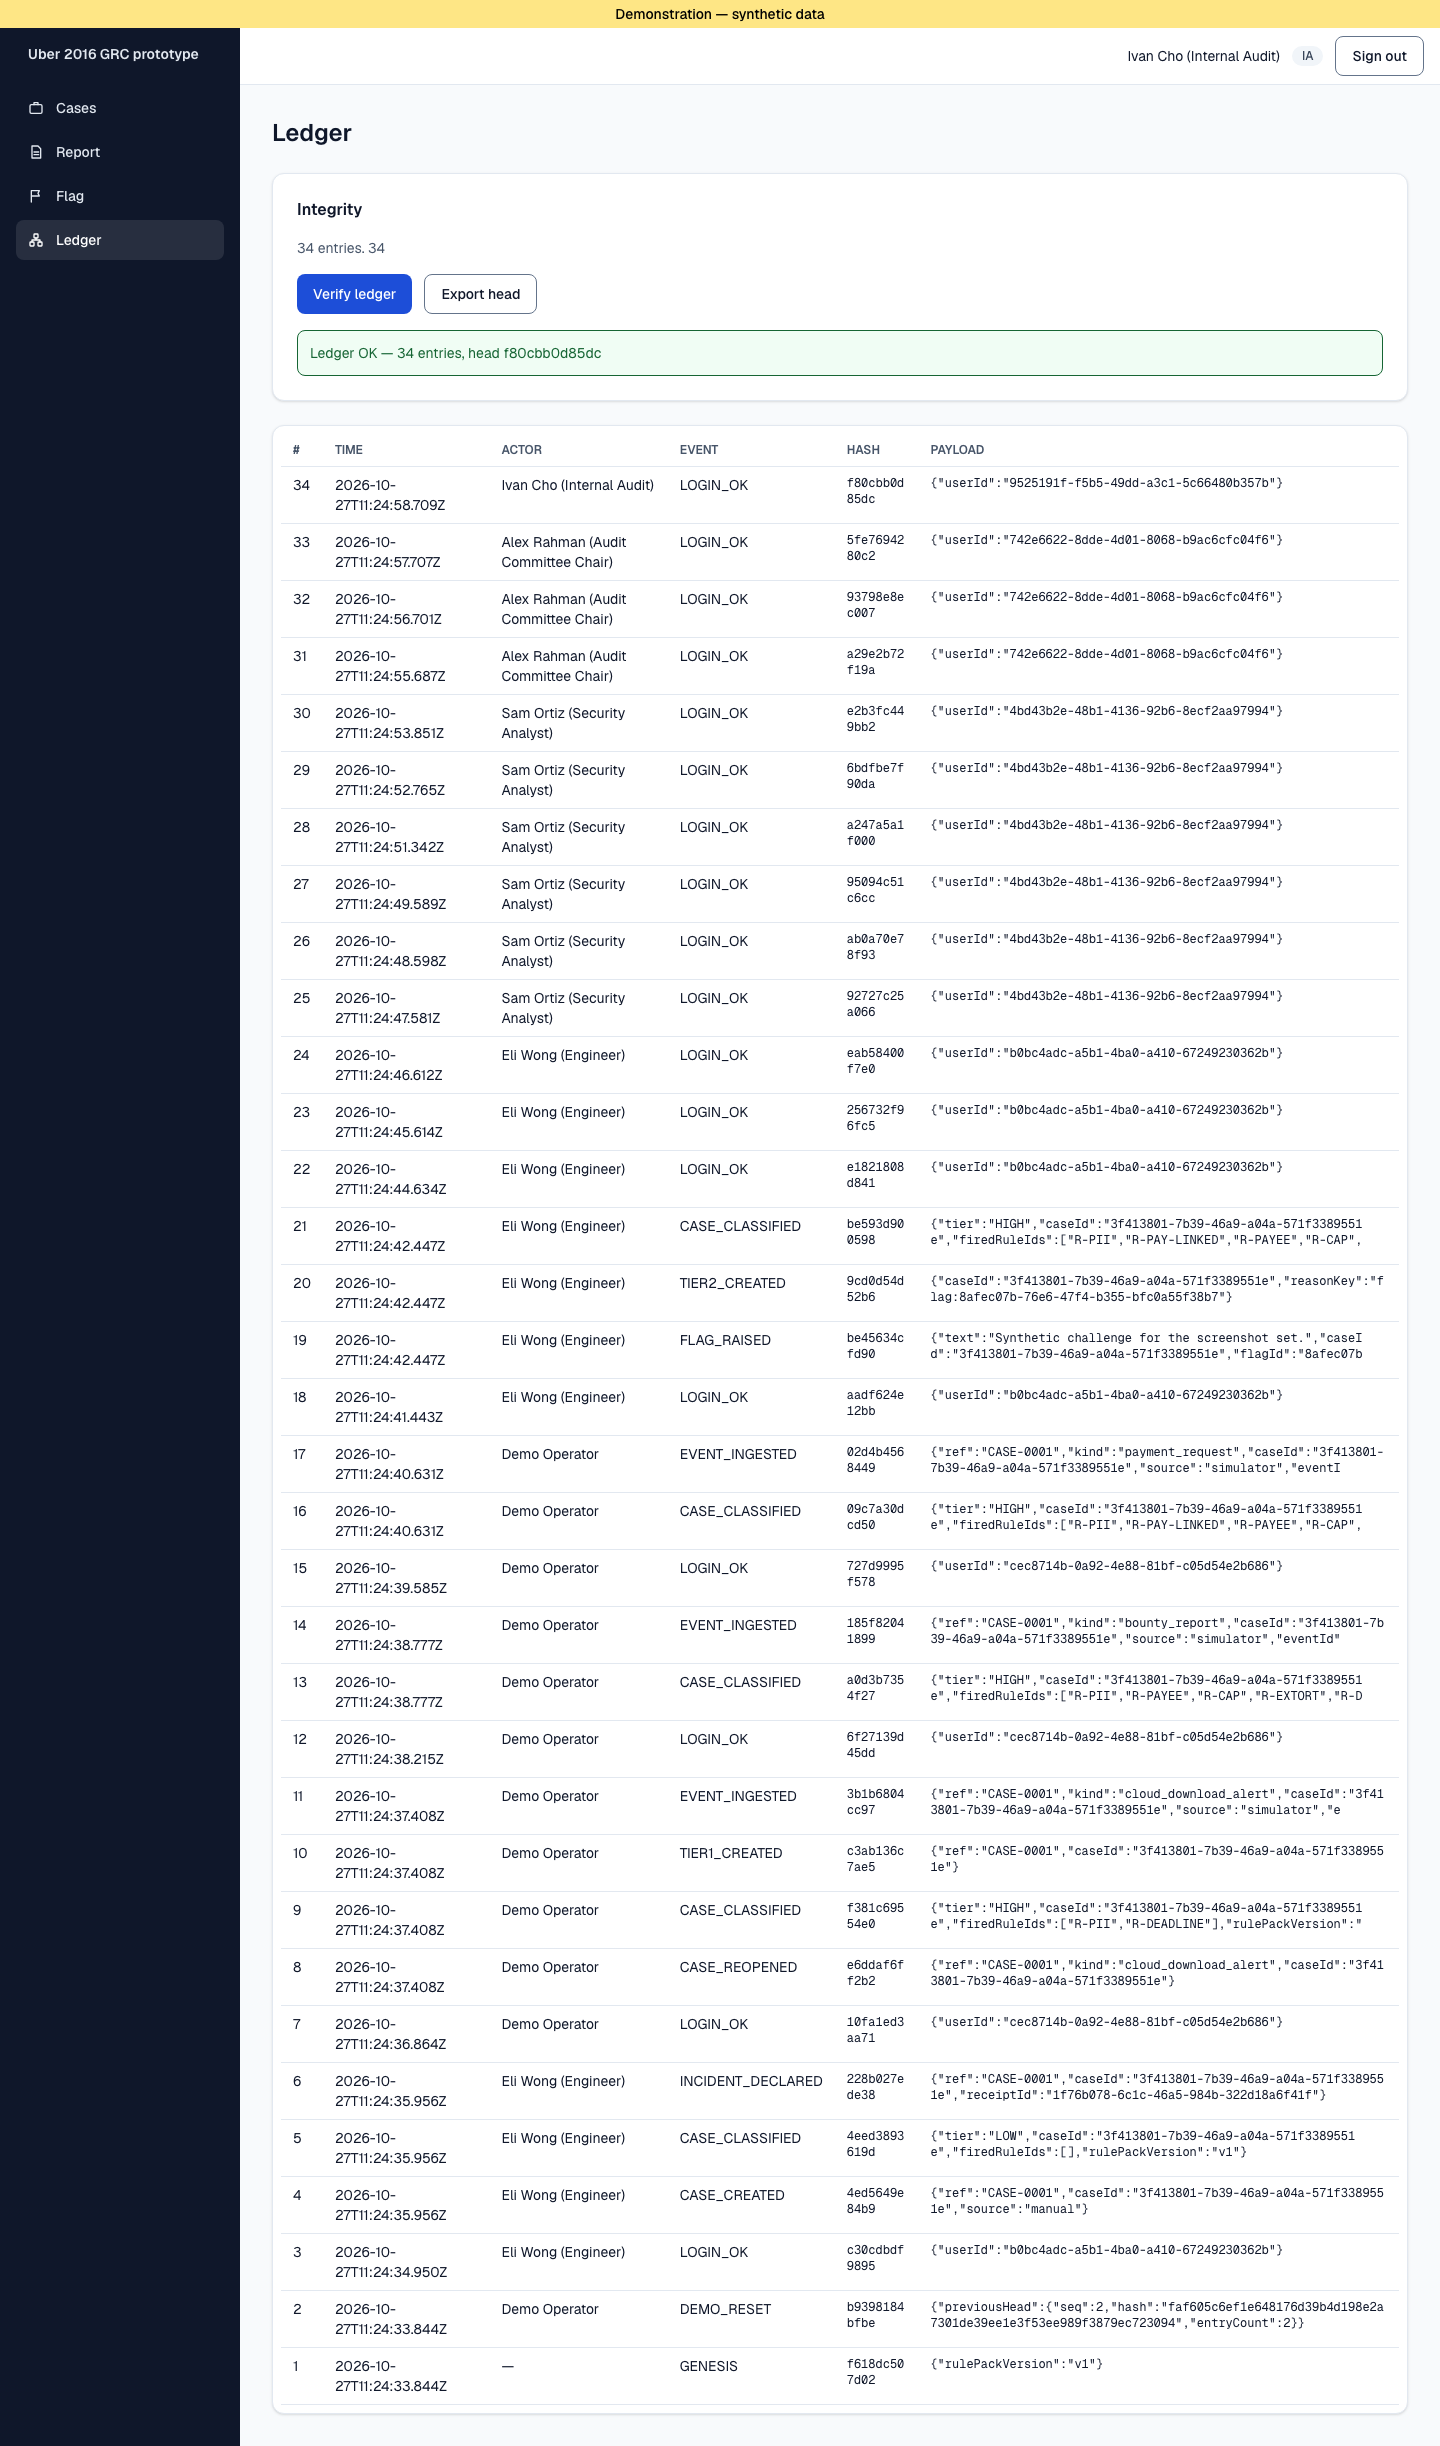
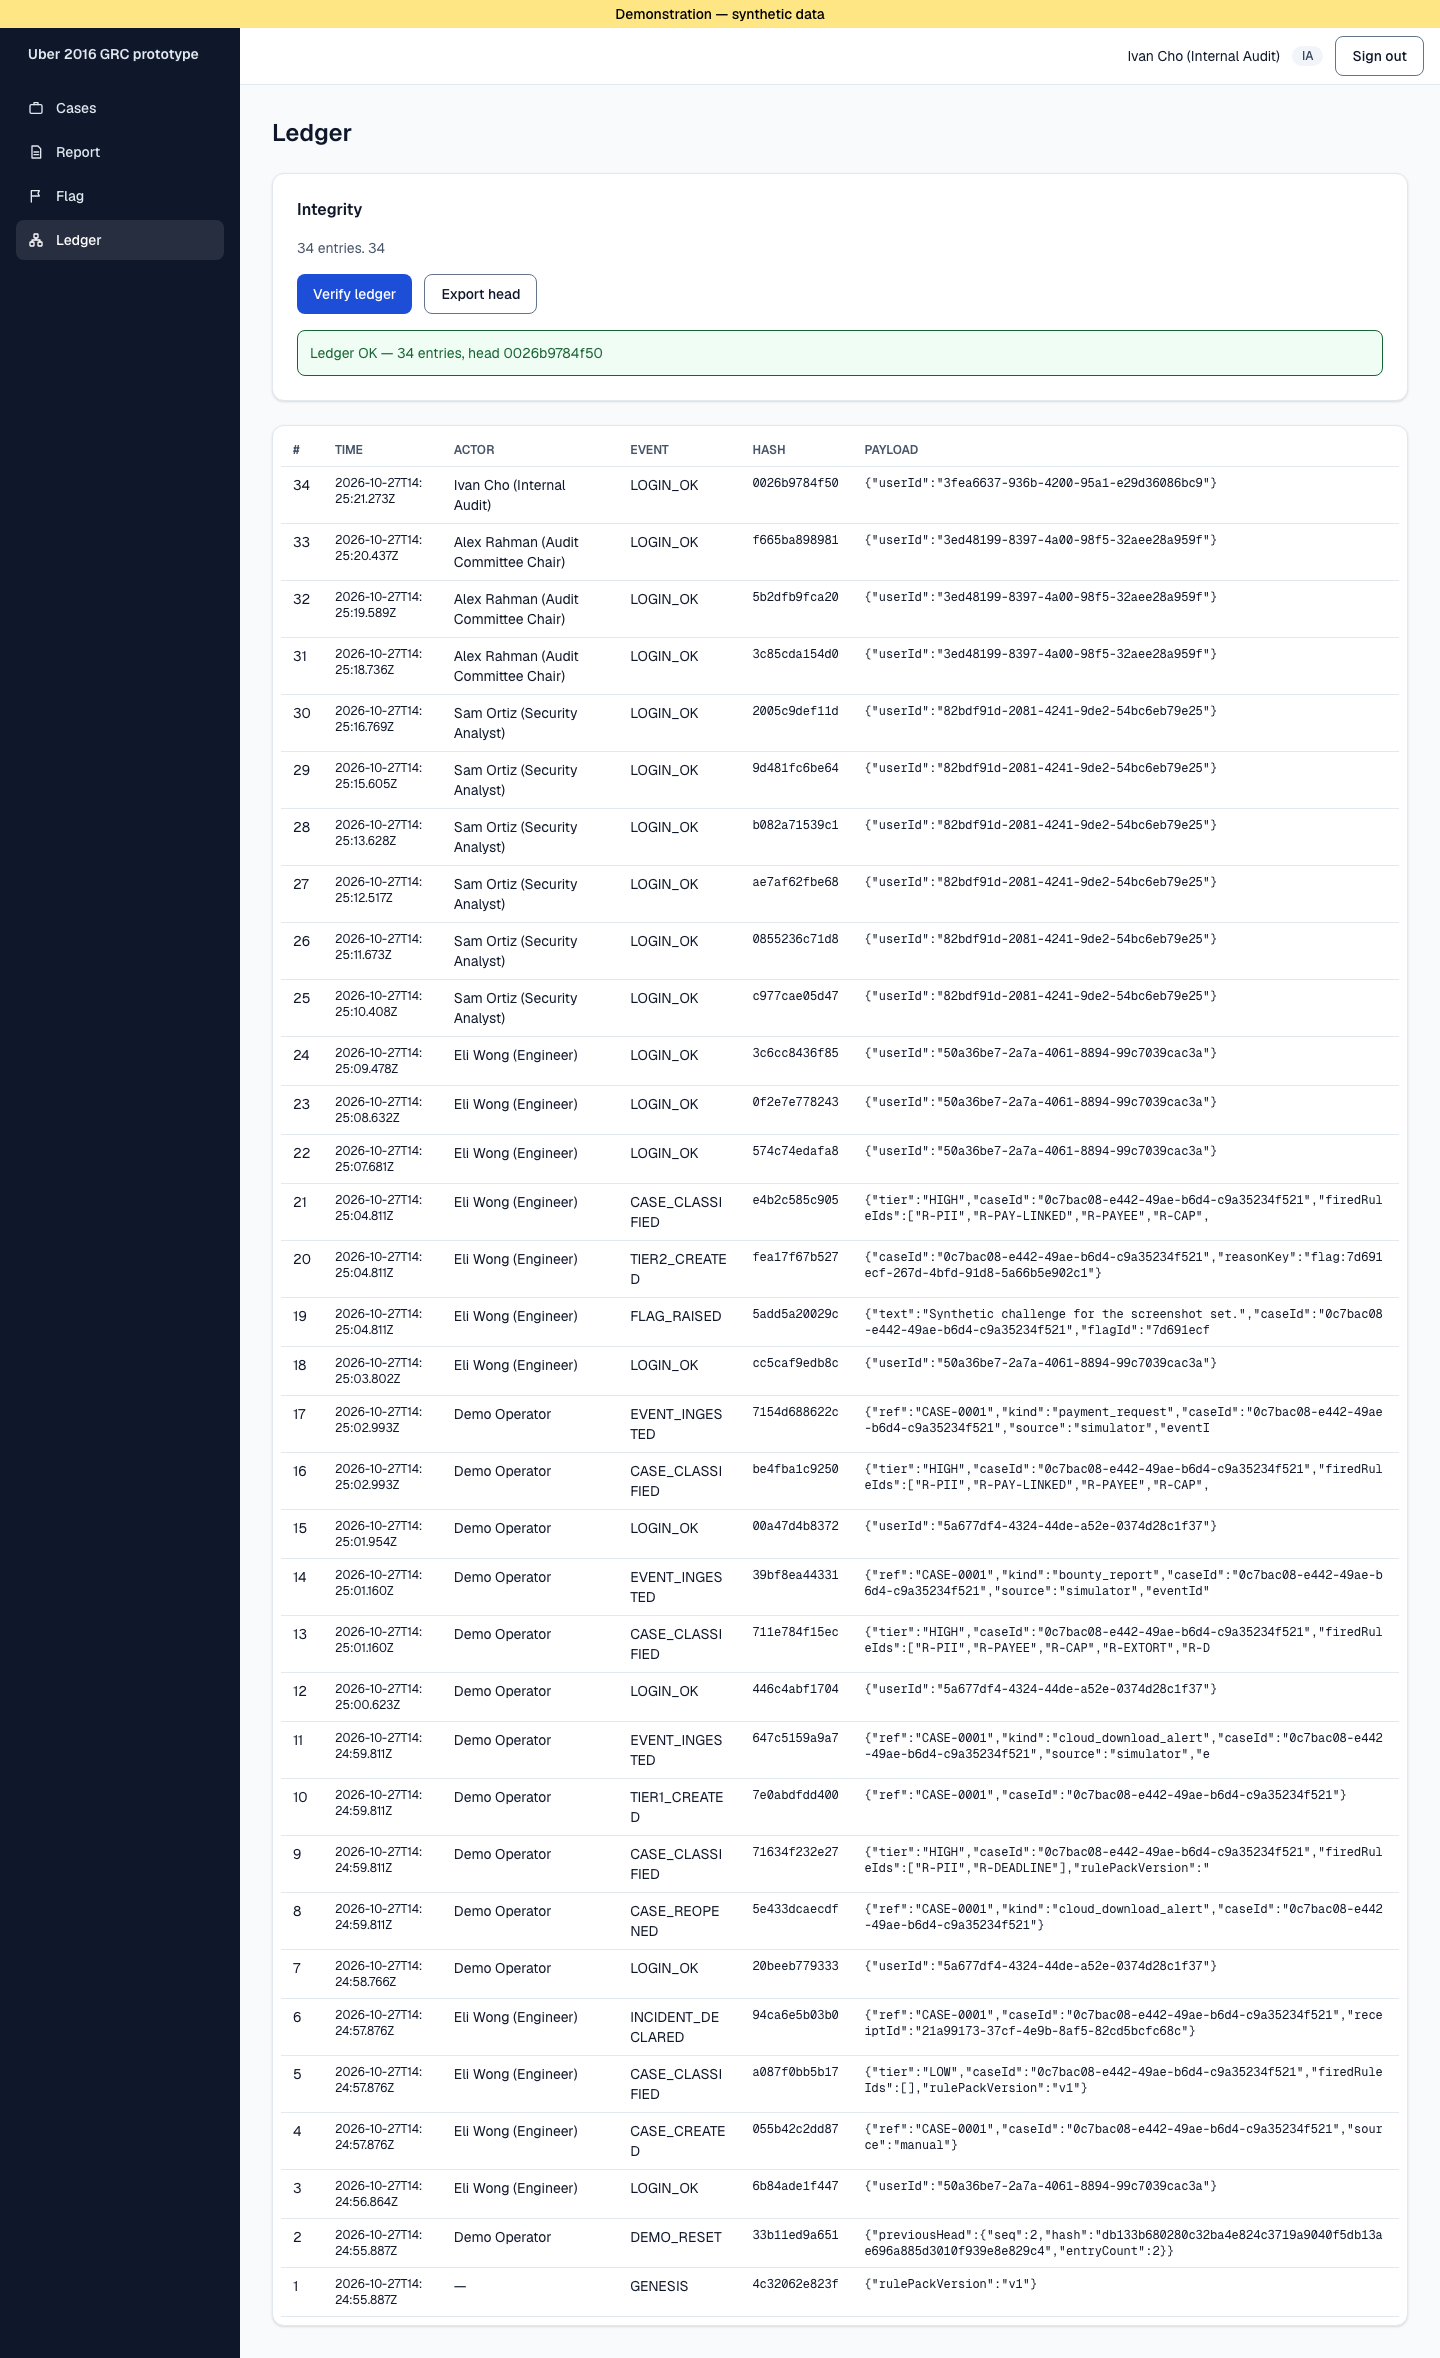
ux: fix clipped clocks table and narrow ledger

diff --git a/src/app/(app)/cases/[id]/DecisionSummary.tsx b/src/app/(app)/cases/[id]/DecisionSummary.tsx
@@ -42,8 +42,8 @@ export function DecisionSummary({
           </Alert>
         </div>
       )}
-      <div className="grid gap-6 lg:grid-cols-3">
-        <div className="flex flex-col gap-6 lg:col-span-2">
+      <div className="grid gap-6 lg:grid-cols-5">
+        <div className="flex flex-col gap-6 lg:col-span-3">
           <Card titleId="events" title="Events">
             <Timeline
               items={c.events.map((e) => ({
@@ -69,7 +69,7 @@ export function DecisionSummary({
             )}
           </Card>
         </div>
-        <div className="flex flex-col gap-6">
+        <div className="flex flex-col gap-6 lg:col-span-2">
           <Card titleId="gate" title="Decision gate">
             <p data-testid="gate-state" className="text-sm font-medium text-ink">
               {c.gate.status === "awaiting" &&
@@ -117,7 +117,7 @@ export function DecisionSummary({
                   const cb = clockBadge(k.status);
                   return (
                     <tr key={k.id} data-testid={`clock-${k.id}`}>
-                      <Td>
+                      <Td className="min-w-16 break-words">
                         {k.label}
                         {k.note && (
                           <div className="text-xs text-muted">{k.note}</div>
@@ -126,7 +126,7 @@ export function DecisionSummary({
                       <Td>
                         <Badge variant={cb.variant}>{k.status}</Badge>
                       </Td>
-                      <Td>{k.dueAt ?? "—"}</Td>
+                      <Td className="break-all">{k.dueAt ?? "—"}</Td>
                       <Td>
                         {k.pctElapsed === null ? "—" : `${k.pctElapsed}%`}
                       </Td>

diff --git a/tests/e2e/ui-shell.spec.ts b/tests/e2e/ui-shell.spec.ts
@@ -195,6 +195,17 @@ test("cases list and case detail keep their contract in the dashboard layout", a
     page.getByRole("region", { name: "Decision gate" }),
   ).toBeInViewport();
   await expect(page.getByRole("button", { name: "Close case" })).toBeEnabled();
+  // Narrow rail: no clock row is clipped or scrolls sideways.
+  await expect(page.locator('[data-testid^="clock-"]').first()).toBeVisible();
+  expect(
+    await page.evaluate(() =>
+      [...document.querySelectorAll('[data-testid^="clock-"]')].flatMap((tr) => [
+        ...[...tr.querySelectorAll("td")].map((c) => c.scrollWidth > c.clientWidth),
+        (tr.closest(".overflow-x-auto") as HTMLElement).scrollWidth >
+          (tr.closest(".overflow-x-auto") as HTMLElement).clientWidth,
+      ]),
+    ),
+  ).not.toContain(true);
 });
 
 test("ledger shows verify result, failure label and a Demo only region", async ({
@@ -228,6 +239,13 @@ test("ledger shows verify result, failure label and a Demo only region", async (
       () => document.documentElement.scrollWidth <= window.innerWidth,
     ),
   ).toBe(true);
+  // Key columns (#, Time, Actor, Event) stay readable without sideways scrolling.
+  const eventHead = await page
+    .getByRole("columnheader", { name: "Event" })
+    .boundingBox();
+  const eventCell = await page.locator("tbody tr").first().locator("td").nth(3).boundingBox();
+  expect(eventHead!.x + eventHead!.width).toBeLessThanOrEqual(375);
+  expect(eventCell!.x + eventCell!.width).toBeLessThanOrEqual(375);
 });
 
 test("demo panel groups replay, clock and reset", async ({ page }) => {

diff --git a/src/app/(app)/ledger/page.tsx b/src/app/(app)/ledger/page.tsx
@@ -126,13 +126,13 @@ async function Ledger({ searchParams }: PageProps<"/ledger">) {
             {rows.map((r) => (
               <tr key={r.seq}>
                 <Td>{r.seq}</Td>
-                <Td>{r.ts}</Td>
-                <Td>{r.actorName}</Td>
-                <Td>{r.eventType}</Td>
-                <Td className="min-w-0 break-all font-mono text-xs">
+                <Td className="min-w-16 break-all text-xs">{r.ts}</Td>
+                <Td className="min-w-16 break-words">{r.actorName}</Td>
+                <Td className="min-w-20 break-all">{r.eventType}</Td>
+                <Td className="min-w-28 break-all font-mono text-xs">
                   {r.hashShort}
                 </Td>
-                <Td className="min-w-0 break-all font-mono text-xs">
+                <Td className="min-w-56 break-all font-mono text-xs">
                   {r.payloadPreview}
                 </Td>
               </tr>

diff --git a/tests/e2e/screens.spec.ts b/tests/e2e/screens.spec.ts
@@ -57,6 +57,7 @@ test.describe.serial("screenshots", () => {
         await page.goto(v.path);
         if (name === "case-detail") {
           await page.getByRole("link", { name: "CASE-0001" }).click();
+          await page.getByRole("region", { name: "Decision gate" }).waitFor();
         }
         await page.waitForLoadState("networkidle");
         await page.screenshot({

diff --git a/docs/ai/HANDOVER.md b/docs/ai/HANDOVER.md
@@ -1,8 +1,8 @@
 # Handover
 
 **Changed:** UX redesign on branch `ux/dashboard-redesign` (not pushed, no PR). Design tokens, shared UI components (`src/components/ui/*`), app shell with sidebar, skip link and mobile menu, every page restyled (login, report, cases, case detail, board, ledger, flag, demo). Old `Nav.tsx` removed. `tests/e2e/screens.spec.ts` (skipped unless `SCREENSHOTS=1`) writes 27 PNGs to `docs/evidence/screens/{1440,768,375}/`. Board page now uses `controlClass` instead of a local `inputCls`.
-**Verified (local, Postgres 16):** `npx eslint src tests` clean, typecheck clean, build OK. Unit 251/252 pass; the one failure is `.claude/worktrees/p1-.../tests/unit/authz.test.ts` (stale worktree copy, not the repo's test). Integration 136/136. `npm run e2e` 25 passed, 2 skipped (screens). `SCREENSHOTS=1 npx playwright test screens` 2 passed, 27 PNGs.
-**Not verified / not done:** hosted preview run; human review; PR not opened; e2e not yet a required check; Playwright `E2E_BASE_URL` support is still missing, so Task 5 of P4 cannot run against a hosted URL. Screenshots seen: board 1440 and login 375 fine; case-detail 1440 clocks table clips the Due timestamp in the narrow right column; ledger 375 table is wider than the viewport (clipped in the full-page PNG).
-**Next:** fix the two clipping issues if wanted, open PR after P4 merges, rebase onto `main`, add `E2E_BASE_URL`, then P4 Task 5.
+**Verified (local, Postgres 16):** `npx eslint src tests` clean, typecheck clean, build OK. Unit 251/252 pass; the one failure is `.claude/worktrees/p1-.../tests/unit/authz.test.ts` (stale worktree copy, not the repo's test). Integration 136/136. `npm run e2e` 25 passed, 2 skipped (screens), including new no-clip and 375px ledger column assertions. `SCREENSHOTS=1 npx playwright test screens` 2 passed, 27 PNGs (case-detail capture now waits for the Decision gate region; earlier PNG was blank).
+**Not verified / not done:** hosted preview run; human review; PR not opened; e2e not yet a required check; Playwright `E2E_BASE_URL` support is still missing, so Task 5 of P4 cannot run against a hosted URL. Screenshots re-checked after the fix: case-detail 1440 clocks no longer clip (rail widened to 2/5 of the grid on lg+, cells wrap) but Due timestamps wrap in short pieces; ledger 375 Event/Actor/# are visible without sideways scroll (Hash/Payload scroll inside the table wrapper), Event type names break mid-word.
+**Next:** open PR after P4 merges, rebase onto `main`, add `E2E_BASE_URL`, then P4 Task 5.
 **Decisions:** presentation only (no server/domain/migration change); status never colour-only (icon plus text); the shell wrapper is `div#main` and each page keeps its own `<main>`; screenshots are committed as evidence.
 **Gotchas:** run `npx eslint src tests`, not bare `npm run lint` (scans `.claude/worktrees`). Stray macOS `.next/types/* 2.ts` duplicates break `tsc`; delete them. Playwright runs `npm run build && npm run start`, so cold-start timing matters. Integration suite TRUNCATEs the target DB.
